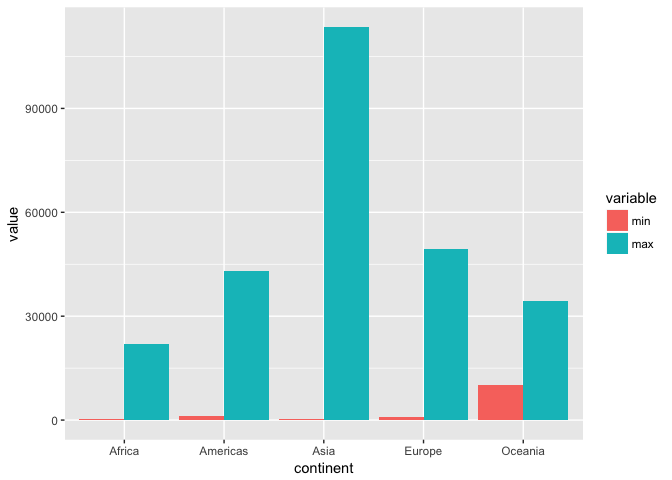
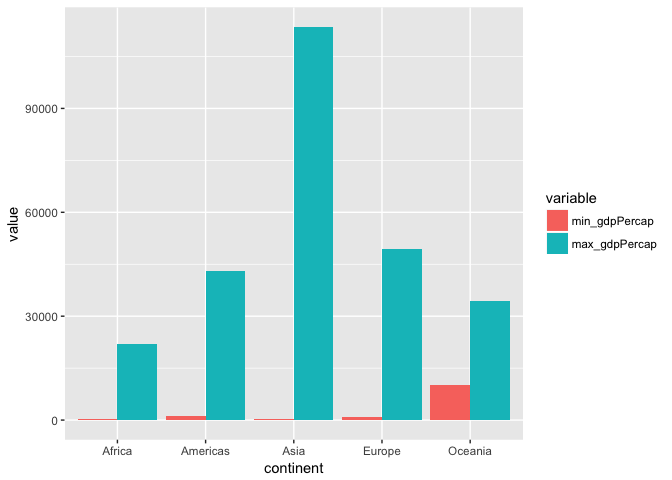
finishing

diff --git a/gapminder.md b/gapminder.md
@@ -50,8 +50,8 @@ and max value by calling **summarize** function.
 ``` r
 min_max <- gapminder %>% 
   group_by(continent) %>% 
-  summarize(min = min(gdpPercap),
-            max = max(gdpPercap))
+  summarize(min_gdpPercap = min(gdpPercap),
+            max_gdpPercap = max(gdpPercap))
 ```
 
 The following chunk makes the table looks better.
@@ -60,13 +60,13 @@ The following chunk makes the table looks better.
 knitr::kable(min_max)
 ```
 
-| continent |        min |       max |
-| :-------- | ---------: | --------: |
-| Africa    |   241.1659 |  21951.21 |
-| Americas  |  1201.6372 |  42951.65 |
-| Asia      |   331.0000 | 113523.13 |
-| Europe    |   973.5332 |  49357.19 |
-| Oceania   | 10039.5956 |  34435.37 |
+| continent | min\_gdpPercap | max\_gdpPercap |
+| :-------- | -------------: | -------------: |
+| Africa    |       241.1659 |       21951.21 |
+| Americas  |      1201.6372 |       42951.65 |
+| Asia      |       331.0000 |      113523.13 |
+| Europe    |       973.5332 |       49357.19 |
+| Oceania   |     10039.5956 |       34435.37 |
 
 In order to plot the min and max value, the data.frame needs to be
 reshaped. The following chunk will put the value of max and min in one
@@ -92,6 +92,9 @@ min_max %>%
 
 ![](gapminder_files/figure-gfm/unnamed-chunk-5-1.png)<!-- -->
 
+The table and the plot show the mininum and maxmum gdp per capita of
+each continent.
+
 The first part of this task is not hard, but I spent a lot of time on
 the second part. I cannot get the correct barplot before I learned how
 to reshape the data.frame. I found the **reshape2** package very helpful
@@ -105,85 +108,88 @@ be specified in the mead() funtion.
 ``` r
 t_mean <- gapminder %>% 
   group_by(year, continent) %>% 
-  summarize(trim_mean = mean(lifeExp, trim = 0.1))
+  summarize(trim_mean_lifeExp = mean(lifeExp, trim = 0.1))
 ```
 
 ``` r
 knitr::kable(t_mean)
 ```
 
-| year | continent | trim\_mean |
-| ---: | :-------- | ---------: |
-| 1952 | Africa    |   38.93298 |
-| 1952 | Americas  |   53.18157 |
-| 1952 | Asia      |   45.98107 |
-| 1952 | Europe    |   65.09708 |
-| 1952 | Oceania   |   69.25500 |
-| 1957 | Africa    |   40.96993 |
-| 1957 | Americas  |   56.04624 |
-| 1957 | Asia      |   49.16422 |
-| 1957 | Europe    |   67.30763 |
-| 1957 | Oceania   |   70.29500 |
-| 1962 | Africa    |   43.04819 |
-| 1962 | Americas  |   58.64005 |
-| 1962 | Asia      |   51.45357 |
-| 1962 | Europe    |   69.07921 |
-| 1962 | Oceania   |   71.08500 |
-| 1967 | Africa    |   45.11750 |
-| 1967 | Americas  |   60.75086 |
-| 1967 | Asia      |   54.78682 |
-| 1967 | Europe    |   70.19675 |
-| 1967 | Oceania   |   71.31000 |
-| 1972 | Africa    |   47.26495 |
-| 1972 | Americas  |   62.86081 |
-| 1972 | Asia      |   57.71233 |
-| 1972 | Europe    |   71.14942 |
-| 1972 | Oceania   |   71.91000 |
-| 1977 | Africa    |   49.34983 |
-| 1977 | Americas  |   64.86633 |
-| 1977 | Asia      |   60.41761 |
-| 1977 | Europe    |   72.22067 |
-| 1977 | Oceania   |   72.85500 |
-| 1982 | Africa    |   51.31998 |
-| 1982 | Americas  |   66.66624 |
-| 1982 | Asia      |   62.99337 |
-| 1982 | Europe    |   73.09983 |
-| 1982 | Oceania   |   74.29000 |
-| 1987 | Africa    |   53.00740 |
-| 1987 | Americas  |   68.54767 |
-| 1987 | Asia      |   65.31263 |
-| 1987 | Europe    |   73.96738 |
-| 1987 | Oceania   |   75.32000 |
-| 1992 | Africa    |   53.71045 |
-| 1992 | Americas  |   70.00586 |
-| 1992 | Asia      |   66.99396 |
-| 1992 | Europe    |   74.73196 |
-| 1992 | Oceania   |   76.94500 |
-| 1997 | Africa    |   53.08371 |
-| 1997 | Americas  |   71.62719 |
-| 1997 | Asia      |   68.49633 |
-| 1997 | Europe    |   75.77375 |
-| 1997 | Oceania   |   78.19000 |
-| 2002 | Africa    |   52.47467 |
-| 2002 | Americas  |   72.88752 |
-| 2002 | Asia      |   69.83704 |
-| 2002 | Europe    |   76.88962 |
-| 2002 | Oceania   |   79.74000 |
-| 2007 | Africa    |   54.07752 |
-| 2007 | Americas  |   74.01419 |
-| 2007 | Asia      |   71.31067 |
-| 2007 | Europe    |   77.82504 |
-| 2007 | Oceania   |   80.71950 |
+| year | continent | trim\_mean\_lifeExp |
+| ---: | :-------- | ------------------: |
+| 1952 | Africa    |            38.93298 |
+| 1952 | Americas  |            53.18157 |
+| 1952 | Asia      |            45.98107 |
+| 1952 | Europe    |            65.09708 |
+| 1952 | Oceania   |            69.25500 |
+| 1957 | Africa    |            40.96993 |
+| 1957 | Americas  |            56.04624 |
+| 1957 | Asia      |            49.16422 |
+| 1957 | Europe    |            67.30763 |
+| 1957 | Oceania   |            70.29500 |
+| 1962 | Africa    |            43.04819 |
+| 1962 | Americas  |            58.64005 |
+| 1962 | Asia      |            51.45357 |
+| 1962 | Europe    |            69.07921 |
+| 1962 | Oceania   |            71.08500 |
+| 1967 | Africa    |            45.11750 |
+| 1967 | Americas  |            60.75086 |
+| 1967 | Asia      |            54.78682 |
+| 1967 | Europe    |            70.19675 |
+| 1967 | Oceania   |            71.31000 |
+| 1972 | Africa    |            47.26495 |
+| 1972 | Americas  |            62.86081 |
+| 1972 | Asia      |            57.71233 |
+| 1972 | Europe    |            71.14942 |
+| 1972 | Oceania   |            71.91000 |
+| 1977 | Africa    |            49.34983 |
+| 1977 | Americas  |            64.86633 |
+| 1977 | Asia      |            60.41761 |
+| 1977 | Europe    |            72.22067 |
+| 1977 | Oceania   |            72.85500 |
+| 1982 | Africa    |            51.31998 |
+| 1982 | Americas  |            66.66624 |
+| 1982 | Asia      |            62.99337 |
+| 1982 | Europe    |            73.09983 |
+| 1982 | Oceania   |            74.29000 |
+| 1987 | Africa    |            53.00740 |
+| 1987 | Americas  |            68.54767 |
+| 1987 | Asia      |            65.31263 |
+| 1987 | Europe    |            73.96738 |
+| 1987 | Oceania   |            75.32000 |
+| 1992 | Africa    |            53.71045 |
+| 1992 | Americas  |            70.00586 |
+| 1992 | Asia      |            66.99396 |
+| 1992 | Europe    |            74.73196 |
+| 1992 | Oceania   |            76.94500 |
+| 1997 | Africa    |            53.08371 |
+| 1997 | Americas  |            71.62719 |
+| 1997 | Asia      |            68.49633 |
+| 1997 | Europe    |            75.77375 |
+| 1997 | Oceania   |            78.19000 |
+| 2002 | Africa    |            52.47467 |
+| 2002 | Americas  |            72.88752 |
+| 2002 | Asia      |            69.83704 |
+| 2002 | Europe    |            76.88962 |
+| 2002 | Oceania   |            79.74000 |
+| 2007 | Africa    |            54.07752 |
+| 2007 | Americas  |            74.01419 |
+| 2007 | Asia      |            71.31067 |
+| 2007 | Europe    |            77.82504 |
+| 2007 | Oceania   |            80.71950 |
 
 The following chunk will a line plot of the change.
 
 ``` r
 t_mean %>% 
-  ggplot(aes(year, trim_mean, col = continent)) +
+  ggplot(aes(year, trim_mean_lifeExp, col = continent)) +
   geom_line()
 ```
 
 ![](gapminder_files/figure-gfm/unnamed-chunk-8-1.png)<!-- -->
+
+The table and the plot show the trimmed mean value of life expectancy of
+different continent over time.
 
 This task is quite straight forwards, and the pattern in clearly shown
 by the
@@ -289,6 +295,9 @@ num_lowExp_country %>%
 ```
 
 ![](gapminder_files/figure-gfm/unnamed-chunk-12-1.png)<!-- -->
+
+The table and the plot show the number of countries that has a
+relatively low life expectancy in each continent over time.
 
 I found the first part of this task very difficult. It was hard for me
 to count the number of countries that has a relatively low life
